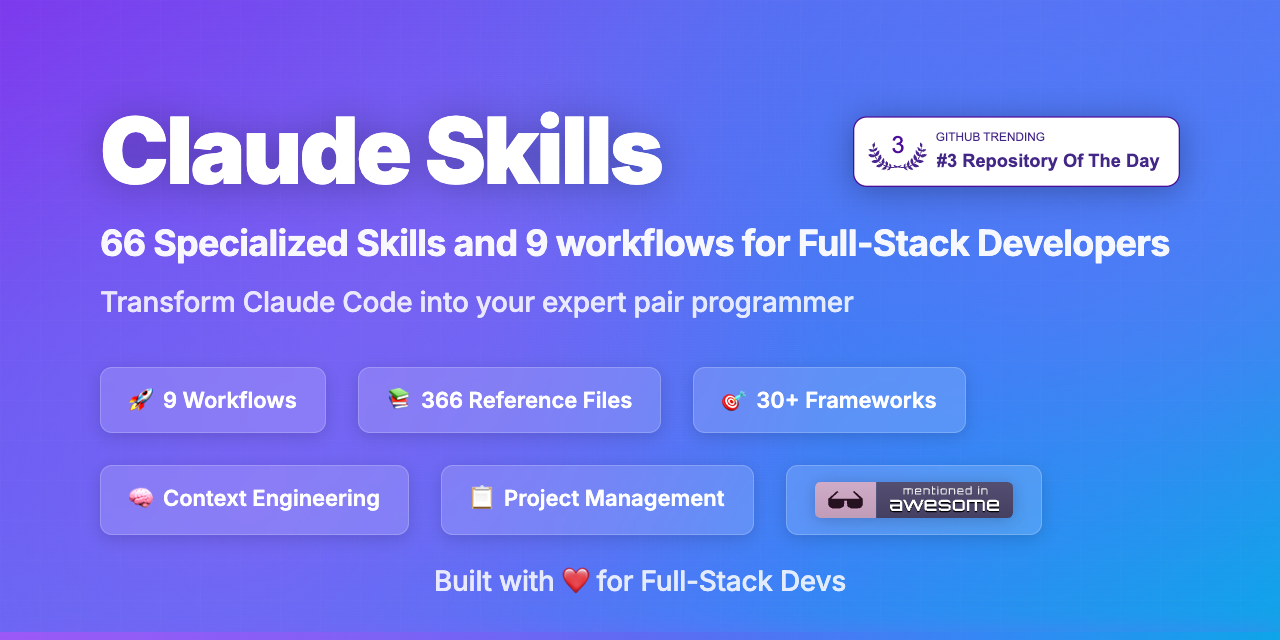
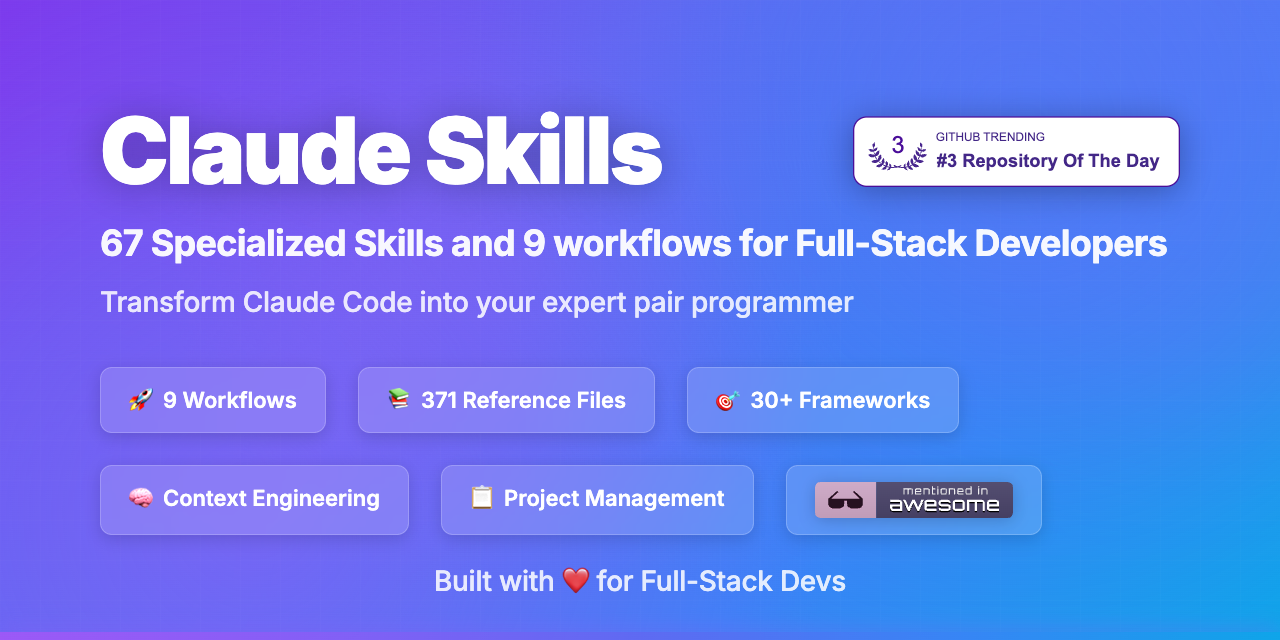
chore: release v0.4.16 (#227)
Claude-Session: https://claude.ai/code/session_01E6LA4sndtVGyvoXqwYeHoB

Changed region(s): [[0.0938, 0.3438, 0.9062, 0.4062], [0.3438, 0.5625, 0.7812, 0.6875]]

diff --git a/CHANGELOG.md b/CHANGELOG.md
@@ -7,6 +7,8 @@ and this project adheres to [Semantic Versioning](https://semver.org/spec/v2.0.0
 
 ## [Unreleased]
 
+## [0.4.16] - 2026-08-07
+
 ### Added
 - New skill: `django-storages-s3` — production AWS S3 file storage for Django with `django-storages` and `boto3`. Covers the Django 4.2+ `STORAGES` dict, public/private custom backends, presigned GET/POST URLs, CloudFront integration, a least-privilege IAM policy, and S3 mocking (`InMemoryStorage`/`moto`). Cross-referenced with `django-expert` (#218)
 - `ReferencePathChecker` in `scripts/validate-skills.py`: validates that file paths cited in skill markdown (backtick paths and markdown links) resolve relative to the containing file or the skill root. Broken paths previously failed silently when an agent tried to load deferred reference content; this class of bug has now recurred across several releases and is guarded automatically in CI and `make validate`
@@ -489,6 +491,7 @@ and this project adheres to [Semantic Versioning](https://semver.org/spec/v2.0.0
 - Monitoring: Prometheus, Grafana, ELK, DataDog
 - Security: OWASP Top 10, SAST tools
 
+[0.4.16]: https://github.com/jeffallan/claude-skills/compare/v0.4.15...v0.4.16
 [0.4.15]: https://github.com/jeffallan/claude-skills/compare/v0.4.14...v0.4.15
 [0.4.14]: https://github.com/jeffallan/claude-skills/compare/v0.4.13...v0.4.14
 [0.4.13]: https://github.com/jeffallan/claude-skills/compare/v0.4.12...v0.4.13

diff --git a/ROADMAP.md b/ROADMAP.md
@@ -2,7 +2,7 @@
 
 ## Current Status
 
-**Version:** v<!-- VERSION -->0.4.15<!-- /VERSION --> (Released January 2026)
+**Version:** v<!-- VERSION -->0.4.16<!-- /VERSION --> (Released January 2026)
 
 - **<!-- SKILL_COUNT -->67<!-- /SKILL_COUNT --> Skills** across 12 domains
 - **<!-- REFERENCE_COUNT -->371<!-- /REFERENCE_COUNT --> Reference Files** with progressive disclosure architecture
@@ -202,4 +202,4 @@ We welcome community input on the roadmap direction. Here's how you can contribu
 
 ---
 
-*This roadmap is a living document and subject to change based on community feedback, technical constraints, and emerging priorities. Last updated: February 2026 (v0.4.15)*
+*This roadmap is a living document and subject to change based on community feedback, technical constraints, and emerging priorities. Last updated: February 2026 (v0.4.16)*

diff --git a/README.md b/README.md
@@ -8,7 +8,7 @@
 </p>
 
 <p align="center">
-  <a href="https://github.com/jeffallan/claude-skills"><img src="https://img.shields.io/badge/version-0.4.15-blue.svg?style=for-the-badge" alt="Version"/></a>
+  <a href="https://github.com/jeffallan/claude-skills"><img src="https://img.shields.io/badge/version-0.4.16-blue.svg?style=for-the-badge" alt="Version"/></a>
   <a href="LICENSE"><img src="https://img.shields.io/badge/license-MIT-green.svg?style=for-the-badge" alt="License"/></a>
   <a href="https://github.com/jeffallan/claude-skills"><img src="https://img.shields.io/badge/Claude_Code-Plugin-purple.svg?style=for-the-badge" alt="Claude Code"/></a>
   <a href="https://github.com/jeffallan/claude-skills/stargazers"><img src="https://img.shields.io/github/stars/jeffallan/claude-skills?style=for-the-badge&color=yellow" alt="Stars"/></a>
